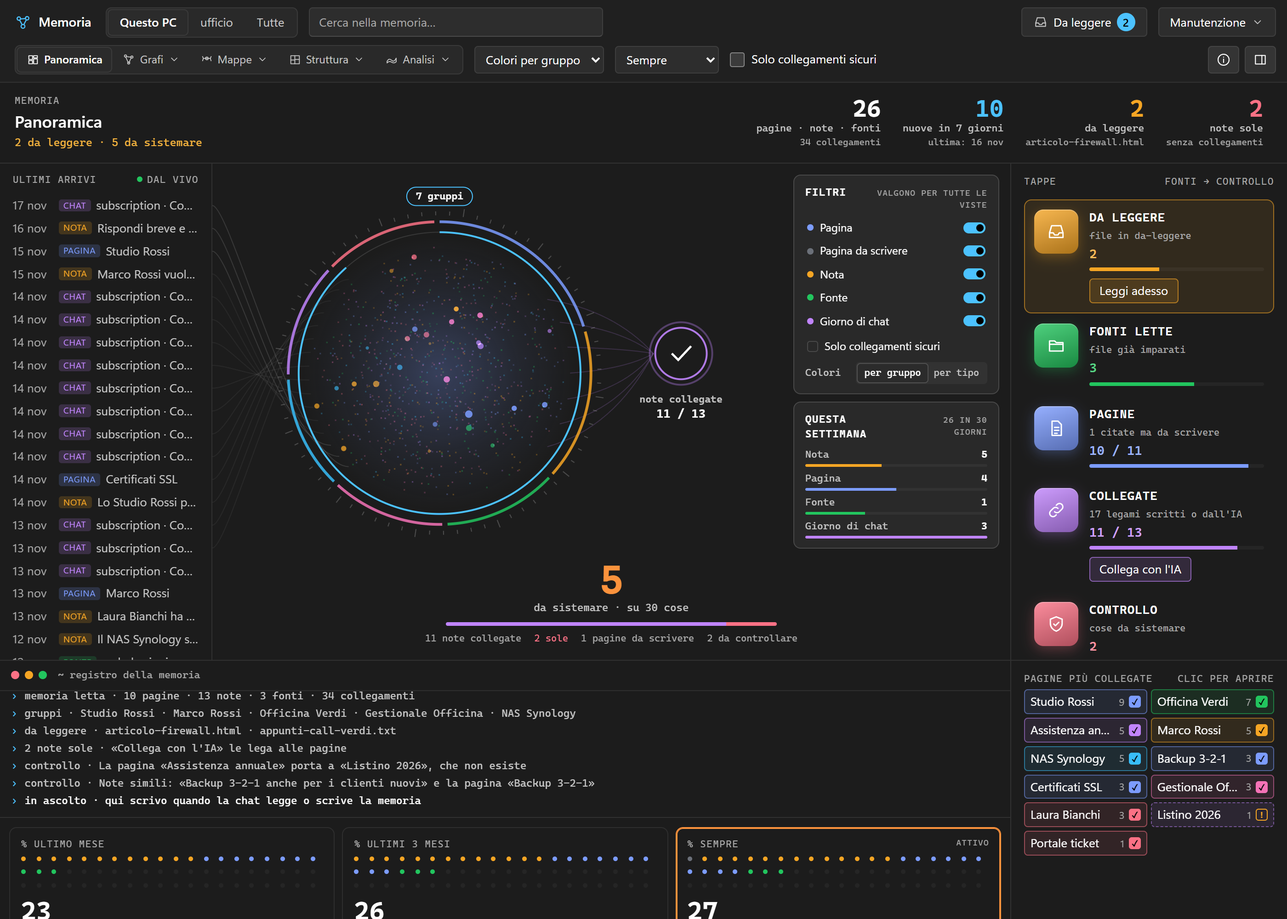
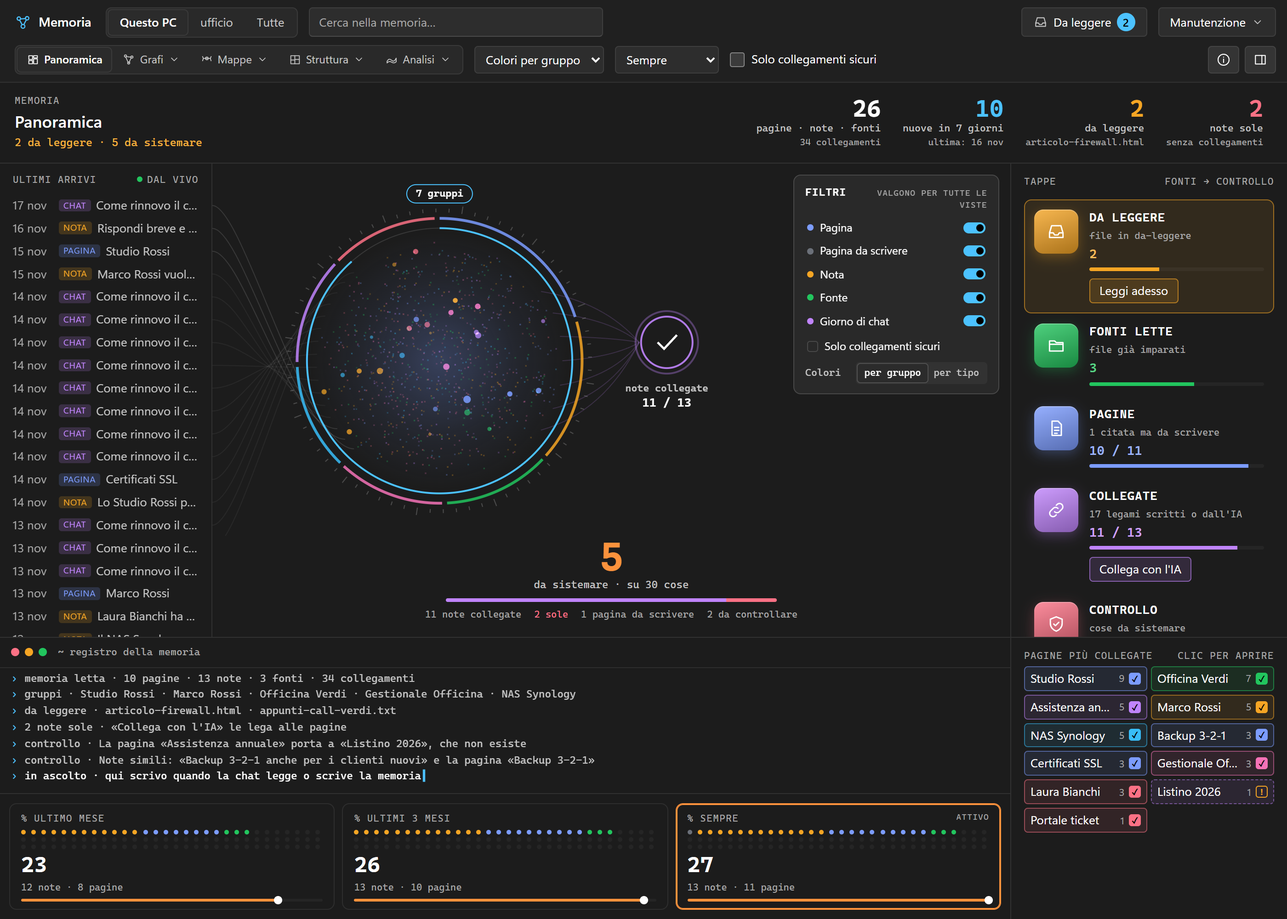
Panoramica: titolo delle chat, singolare e plurale, anello dei gruppi pieno, tutto in vista a 1400×1000
Le righe del diario mostrano la domanda (il motore piccolo in fondo, solo
se c'è spazio). Tutte le cifre del cruscotto con tn(). Gli archi dei
gruppi fanno tutto il giro: i primi 11 e gli altri insieme in «altri N
gruppi», coi loro colori. I gettoni scorrono dentro il loro riquadro
(contain: size) e non allungano più le righe in basso; registro e periodi
più compatti: a 1400×1000 le tre schede si vedono intere. I riquadri sopra
il nucleo stanno nel suo spazio; se è basso «Questa settimana» lascia posto
ai filtri.

diff --git a/src/memory/dashboard.ts b/src/memory/dashboard.ts
@@ -8,7 +8,7 @@
 // other views (main.ts DashHost). DOM, plus one canvas for the nucleus that
 // moves only while the window is visible and in front, at 30 fps at most.
 
-import { t } from "../core/i18n";
+import { t, tn } from "../core/i18n";
 
 import { h, clear, svg } from "../views/dom";
 import { GROUP_COLORS, KIND_COLOR, alpha, freshness, kindName, shortDate, type MemGraph, type MemNode, type Model, type NodeKind } from "./data";
@@ -66,6 +66,17 @@ const days = (date: string) => {
 };
 const isNote = (n: MemNode) => n.kind === "note" || n.kind === "old";
 const isPage = (n: MemNode) => n.kind === "page" || n.kind === "missing";
+/**
+ * A line of the chat diary (brain.rs: «motore · domanda → risposta»): the
+ * question is what the chat was about; the engine goes small at the end.
+ */
+function diaryLine(text: string): { title: string; engine: string } {
+  const m = /^([^·\n]{1,40}?) · ([\s\S]*)$/.exec(text);
+  const rest = m ? m[2] : text;
+  const question = rest.split(" → ")[0].trim();
+  return { title: question || rest, engine: m ? m[1].trim() : "" };
+}
+
 /** Short labels for the feed's tags. */
 const TAG: Partial<Record<NodeKind, string>> = { note: t("nota"), page: t("pagina"), source: t("fonte"), day: t("chat") };
 const LANE_KIND: Record<string, NodeKind> = { note: "note", page: "page", diary: "day", source: "source" };
@@ -106,8 +117,9 @@ export class Dashboard {
       tip: (text, sub, x, y) => this.showTip(text, sub, x, y),
       feedRows: () => this.feedRows(stage),
     });
-    stage.append(this.tip);
-    const coreBox = h("div", { class: "dash-box dash-core" }, stage, h("div", { class: "dash-floats" }, this.filtersBox, this.weekBox), this.coreNumber);
+    const floats = h("div", { class: "dash-floats" }, this.filtersBox, this.weekBox);
+    stage.append(this.tip, floats);
+    const coreBox = h("div", { class: "dash-box dash-core" }, stage, this.coreNumber);
     const stagesBox = h("div", { class: "dash-box dash-stages" },
       h("div", { class: "dash-label" }, h("span", { text: t("tappe") }), h("span", { text: t("fonti → controllo") })),
       this.stages);
@@ -121,7 +133,13 @@ export class Dashboard {
     this.el.append(head, feedBox, coreBox, stagesBox, tokensBox, termBox, cmpBox);
     new ResizeObserver(() => {
       const w = coreBox.getBoundingClientRect().width;
-      coreBox.classList.toggle("narrow", w > 0 && w < 640);
+      const narrow = w > 0 && w < 640;
+      coreBox.classList.toggle("narrow", narrow);
+      // Narrow: the small boxes go under the nucleus, out of its stage.
+      if (narrow && floats.parentElement === stage) coreBox.insertBefore(floats, this.coreNumber);
+      if (!narrow && floats.parentElement !== stage) stage.append(floats);
+      // Low: «Questa settimana» gives its room to the filters (its numbers are also on top).
+      coreBox.classList.toggle("short", !narrow && stage.getBoundingClientRect().height < 430);
     }).observe(coreBox);
   }
 
@@ -163,7 +181,7 @@ export class Dashboard {
       this.numbers.append(b);
     };
     const things = g.nodes.filter((n) => n.kind !== "day" && n.kind !== "missing");
-    big(things.length, t("pagine · note · fonti"), t("{n} collegamenti", { n: g.edges.length }), t("Apri il grafo"), () => this.host.openSet([]));
+    big(things.length, t("pagine · note · fonti"), tn("{n} collegamento", "{n} collegamenti", g.edges.length), t("Apri il grafo"), () => this.host.openSet([]));
     big(fresh.length, t("nuove in 7 giorni"), fresh.length ? t("ultima: {d}", { d: shortDate(fresh.map((n) => n.date).sort().pop() ?? "") }) : t("niente di nuovo"),
       t("Clic per vederle nel grafo"), () => this.host.openSet(fresh.map((n) => n.id)), "accent");
     big(g.inbox.length, t("da leggere"), g.inbox.length ? (g.inbox[0] ?? "") : t("cartella vuota"), t("Apri la cartella dei file da far imparare"), () => this.host.openInbox(), g.inbox.length ? "warn" : "");
@@ -179,10 +197,11 @@ export class Dashboard {
     const events = [...s.model.g.events].sort((a, b) => b.date.localeCompare(a.date)).slice(0, 60);
     for (const e of events) {
       const kind = LANE_KIND[e.lane] ?? "note";
+      const { title, engine } = e.lane === "diary" ? diaryLine(e.text) : { title: e.text, engine: "" };
       const row = h("button", { class: "dash-feed-row", title: e.text, disabled: !e.node || !s.model.byId.has(e.node) },
         h("span", { class: "dash-feed-date", text: shortDate(e.date) }),
         h("span", { class: "dash-tag", style: `--tag:${KIND_COLOR[kind]}`, text: TAG[kind] ?? kindName(kind) }),
-        h("span", { class: "dash-feed-text", text: e.text }));
+        h("span", { class: "dash-feed-text" }, h("span", { text: title }), engine ? h("small", { text: engine }) : ""));
       row.addEventListener("click", () => this.host.open(e.node));
       this.feed.append(row);
     }
@@ -235,13 +254,13 @@ export class Dashboard {
     clear(this.coreNumber);
     const b = h("button", { class: `dash-core-big ${todo ? "" : "ok"}`, title: todo ? t("Le note sole nel grafo") : "" },
       h("b", { text: String(todo) }),
-      h("span", { text: todo ? t("da sistemare · su {n} cose", { n: g.nodes.length }) : t("niente da sistemare") })) as HTMLButtonElement;
+      h("span", { text: todo ? tn("da sistemare · su {n} cosa", "da sistemare · su {n} cose", g.nodes.length) : t("niente da sistemare") })) as HTMLButtonElement;
     b.addEventListener("click", () => this.host.openSet([...lonely, ...missing].map((n) => n.id)));
     const bar = h("div", { class: "dash-bar two" }, h("i", { style: `width:${(share * 100).toFixed(1)}%` }), h("em", { style: `width:${((1 - share) * 100).toFixed(1)}%` }));
     this.coreNumber.append(b, bar, h("div", { class: "dash-bar-legend" },
-      h("span", { text: t("{n} note collegate", { n: linked }) }),
-      h("span", { class: lonely.length ? "bad" : "", text: t("{n} sole", { n: lonely.length }) }),
-      h("span", { text: t("{n} pagine da scrivere", { n: missing.length }) }),
+      h("span", { text: tn("{n} nota collegata", "{n} note collegate", linked) }),
+      h("span", { class: lonely.length ? "bad" : "", text: tn("{n} sola", "{n} sole", lonely.length) }),
+      h("span", { text: tn("{n} pagina da scrivere", "{n} pagine da scrivere", missing.length) }),
       h("span", { text: t("{n} da controllare", { n: g.check.length }) })));
 
     // Top right: the filters of every view, the legend as switches.
@@ -334,10 +353,10 @@ export class Dashboard {
     stage({ icon: LINE.source, color: "#22c55e", name: t("Fonti lette"), sub: t("file già imparati"), value: String(sources), bar: sources / Math.max(1, sources + g.inbox.length),
       open: sources ? () => this.host.openSet(g.nodes.filter((n) => n.kind === "source").map((n) => n.id)) : undefined,
       empty: sources ? "" : t("Nessun file letto finora.") });
-    stage({ icon: LINE.page, color: "#7c9cff", name: t("Pagine"), sub: missing ? t("{n} citate ma da scrivere", { n: missing }) : t("tutte scritte"), value: `${pages} / ${pages + missing}`, bar: pages / Math.max(1, pages + missing), hot: hot === 2,
+    stage({ icon: LINE.page, color: "#7c9cff", name: t("Pagine"), sub: missing ? tn("{n} citata ma da scrivere", "{n} citate ma da scrivere", missing) : t("tutte scritte"), value: `${pages} / ${pages + missing}`, bar: pages / Math.max(1, pages + missing), hot: hot === 2,
       open: missing ? () => this.host.openSet(g.nodes.filter((n) => n.kind === "missing").map((n) => n.id)) : undefined,
       empty: pages ? "" : t("Le pagine nascono dai file letti o quando chiedi alla chat di scriverne una.") });
-    stage({ icon: LINE.link, color: "#c084fc", name: t("Collegate"), sub: t("{n} legami scritti o dall'IA", { n: aiLinks }), value: `${notes.length - lonely} / ${notes.length}`, bar: notes.length ? (notes.length - lonely) / notes.length : 1, hot: hot === 3,
+    stage({ icon: LINE.link, color: "#c084fc", name: t("Collegate"), sub: tn("{n} legame scritto o dall'IA", "{n} legami scritti o dall'IA", aiLinks), value: `${notes.length - lonely} / ${notes.length}`, bar: notes.length ? (notes.length - lonely) / notes.length : 1, hot: hot === 3,
       button: s.noLink ? undefined : [t("Collega con l'IA"), () => this.host.link()],
       empty: notes.length ? "" : t("Ancora nessuna nota da collegare.") });
     stage({ icon: LINE.check, color: g.check.length ? "#fb7185" : "#2dd4bf", name: t("Controllo"), sub: g.check.length ? t("cose da sistemare") : t("niente da sistemare"), value: String(g.check.length), bar: g.check.length ? Math.min(1, g.check.length / 10) : 1, hot: hot === 4,
@@ -354,7 +373,7 @@ export class Dashboard {
       .slice(0, 28);
     for (const { n, links } of pages) {
       const color = s.colours === "group" ? s.model.groupColor(n.id) ?? KIND_COLOR[n.kind] : KIND_COLOR[n.kind];
-      const b = h("button", { class: `dash-token ${n.kind === "missing" ? "missing" : ""}`, style: `--tone:${color}`, title: n.kind === "missing" ? t("Citata ma non ancora scritta") : t("{n} collegamenti", { n: links }) },
+      const b = h("button", { class: `dash-token ${n.kind === "missing" ? "missing" : ""}`, style: `--tone:${color}`, title: n.kind === "missing" ? t("Citata ma non ancora scritta") : tn("{n} collegamento", "{n} collegamenti", links) },
         h("span", { text: n.label }), h("small", { text: String(links) }), h("em", { text: n.kind === "missing" ? "!" : "✓" })) as HTMLButtonElement;
       b.addEventListener("click", () => this.host.open(n.id));
       this.tokens.append(b);
@@ -378,12 +397,12 @@ export class Dashboard {
       const per = Math.max(1, Math.ceil(items.length / 180));
       const sorted = [...items].sort((a, b) => a.kind.localeCompare(b.kind));
       for (let i = 0; i < sorted.length; i += per) dots.append(h("i", { style: `background:${KIND_COLOR[sorted[i].kind]}` }));
-      for (let i = Math.ceil(sorted.length / per); i < 60; i++) dots.append(h("i", { class: "off" }));
+      for (let i = Math.ceil(sorted.length / per); i < 90; i++) dots.append(h("i", { class: "off" }));
       card.append(
         h("div", { class: "dash-period-head" }, h("span", { text: `% ${name}` }), h("small", { text: s.period === p ? t("attivo") : "" })),
         dots,
         h("b", { text: String(items.length) }),
-        h("span", { class: "dash-period-sub", text: t("{a} note · {b} pagine", { a: notes, b: pages }) }),
+        h("span", { class: "dash-period-sub", text: `${tn("{n} nota", "{n} note", notes)} · ${tn("{n} pagina", "{n} pagine", pages)}` }),
         h("div", { class: "dash-slider" }, h("i", { style: `width:${all.length ? (items.length / all.length) * 100 : 0}%` })));
       card.addEventListener("click", () => this.host.setPeriod(p));
       this.periods.append(card);
@@ -431,12 +450,12 @@ export class Dashboard {
   private greet(s: DashState) {
     const g = s.model.g;
     const count = (k: NodeKind) => g.nodes.filter((n) => n.kind === k).length;
-    this.log(t("memoria letta · {p} pagine · {n} note · {s} fonti · {e} collegamenti", { p: count("page"), n: count("note"), s: count("source"), e: g.edges.length }));
+    this.log([t("memoria letta"), tn("{n} pagina", "{n} pagine", count("page")), tn("{n} nota", "{n} note", count("note")), tn("{n} fonte", "{n} fonti", count("source")), tn("{n} collegamento", "{n} collegamenti", g.edges.length)].join(" · "));
     const groups = s.model.groups().groups;
     if (groups.length) this.log(t("gruppi · {list}", { list: groups.slice(0, 5).map((x) => x.name).join(" · ") }));
     if (g.inbox.length) this.log(t("da leggere · {list}", { list: g.inbox.slice(0, 4).join(" · ") }));
     const lonely = s.model.lonely().length;
-    if (lonely) this.log(t("{n} note sole · «Collega con l'IA» le lega alle pagine", { n: lonely }));
+    if (lonely) this.log(tn("{n} nota sola · «Collega con l'IA» la lega alle pagine", "{n} note sole · «Collega con l'IA» le lega alle pagine", lonely));
     for (const c of g.check.slice(0, 2)) this.log(t("controllo · {c}", { c }));
     this.log(t("in ascolto · qui scrivo quando la chat legge o scrive la memoria"));
   }
@@ -477,8 +496,10 @@ class Nucleus {
   private h = 0;
   private parts: Particle[] = [];
   private shown: { x: number; y: number; r: number; id: string }[] = [];
-  private arcs: { a0: number; a1: number; lead: string; name: string; size: number; color: string }[] = [];
+  private arcs: { a0: number; a1: number; lead: string; name: string; size: number; color: string; parts?: { size: number; color: string }[] }[] = [];
   private fresh = 0;
+  /** How many groups the memory has (the arcs put the small ones together). */
+  private groupCount = 0;
   /** Faint points that give the sphere its body, more when the memory is small. */
   private dust: { x: number; y: number; z: number; color: string }[] = [];
   private model: Model | null = null;
@@ -502,7 +523,7 @@ class Nucleus {
         const n = this.model?.byId.get(hit.id);
         this.host.tip(n?.label ?? "", n ? [kindName(n.kind), shortDate(n.date)].filter(Boolean).join(" · ") : "", p.x, p.y);
       } else if (hit?.lead) {
-        this.host.tip(hit.name ?? "", t("gruppo · {n} cose · clic per vederlo", { n: hit.size ?? 0 }), p.x, p.y);
+        this.host.tip(hit.name ?? "", tn("gruppo · {n} cosa · clic per vederlo", "gruppo · {n} cose · clic per vederlo", hit.size ?? 0), p.x, p.y);
       } else this.host.tip(null);
       const id = hit?.id ?? null;
       if (id !== this.hover) this.hover = id;
@@ -586,15 +607,25 @@ class Nucleus {
       };
     });
     // The rings: one arc per group, as long as the group.
-    // At most 12 arcs (the colours repeat after that); they share the whole ring.
-    const ringed = groups.slice(0, 12);
+    // The arcs fill the whole ring: the 11 biggest groups, the rest together in «altri».
+    this.groupCount = groups.length;
+    const leadOf = (members: string[]) => members.map((id) => model.byId.get(id)).filter((n): n is MemNode => !!n && isPage(n)).sort((x, y) => y.weight - x.weight)[0]?.id ?? members[0];
+    const big = groups.length > 12 ? groups.slice(0, 11) : groups;
+    const rest = groups.slice(big.length);
+    const ringed: { name: string; members: string[]; color: string; parts?: { size: number; color: string }[] }[] =
+      big.map((g) => ({ name: g.name, members: g.members, color: g.color ?? GROUP_COLORS[0] }));
+    if (rest.length) {
+      ringed.push({
+        name: tn("{n} altro gruppo", "altri {n} gruppi", rest.length), members: rest.flatMap((g) => g.members), color: "#8b93a3",
+        parts: rest.map((g) => ({ size: g.members.length, color: g.color ?? GROUP_COLORS[0] })),
+      });
+    }
     const total = ringed.reduce((s, g) => s + g.members.length, 0) || 1;
     const gap = ringed.length > 1 ? 0.035 : 0;
     let a = -Math.PI / 2;
     this.arcs = ringed.map((g) => {
       const span = (g.members.length / total) * (Math.PI * 2 - gap * ringed.length);
-      const lead = g.members.map((id) => model.byId.get(id)).filter((n): n is MemNode => !!n && isPage(n)).sort((x, y) => y.weight - x.weight)[0]?.id ?? g.members[0];
-      const arc = { a0: a, a1: a + span, lead, name: g.name, size: g.members.length, color: g.color ?? GROUP_COLORS[0] };
+      const arc = { a0: a, a1: a + span, lead: leadOf(g.members), name: g.name, size: g.members.length, color: g.color, parts: g.parts };
       a += span + gap;
       return arc;
     });
@@ -724,12 +755,22 @@ class Nucleus {
     ctx.stroke();
     ctx.lineWidth = 3;
     for (const a of this.arcs) {
-      ctx.strokeStyle = a.color;
       ctx.globalAlpha = this.hover === a.lead ? 1 : 0.85;
-      ctx.beginPath();
-      ctx.arc(cx, cy, R * 1.16, a.a0, a.a1);
-      ctx.stroke();
+      // «Altri gruppi»: thinner, each small group in its colour.
+      const pieces = a.parts ?? [{ size: a.size, color: a.color }];
+      const sum = pieces.reduce((s, p) => s + p.size, 0) || 1;
+      ctx.lineWidth = a.parts ? 2 : 3;
+      let at = a.a0;
+      for (const p of pieces) {
+        const end = at + ((a.a1 - a.a0) * p.size) / sum;
+        ctx.strokeStyle = p.color;
+        ctx.beginPath();
+        ctx.arc(cx, cy, R * 1.16, at, end);
+        ctx.stroke();
+        at = end;
+      }
     }
+    ctx.lineWidth = 3;
     ctx.globalAlpha = 1;
     ctx.lineWidth = 1;
     ctx.strokeStyle = ink(0.22);
@@ -796,7 +837,7 @@ class Nucleus {
     }
 
     // The chip on top: how many groups.
-    const chip = this.arcs.length ? t("{n} gruppi", { n: this.arcs.length }) : t("nessun gruppo ancora");
+    const chip = this.groupCount ? tn("{n} gruppo", "{n} gruppi", this.groupCount) : t("nessun gruppo ancora");
     ctx.font = `600 11px ${MONO}`;
     const cw = ctx.measureText(chip).width + 20;
     const chipY = cy - R * 1.27 - 12;

diff --git a/src/memory/dashboard.css b/src/memory/dashboard.css
@@ -12,7 +12,7 @@
   overflow: auto;
   display: grid;
   grid-template-columns: 230px minmax(0, 1fr) 300px;
-  grid-template-rows: max-content minmax(540px, 1fr) minmax(170px, max-content) max-content;
+  grid-template-rows: max-content minmax(400px, 1fr) max-content max-content;
   grid-template-areas:
     "top top top"
     "feed core stages"
@@ -40,7 +40,8 @@
 .dash-feed { grid-area: feed; display: flex; flex-direction: column; padding: 10px 0 0; }
 .dash-core { grid-area: core; display: flex; flex-direction: column; padding: 0; overflow: hidden; }
 .dash-stages { grid-area: stages; display: flex; flex-direction: column; gap: 8px; overflow: auto; }
-.dash-tokens { grid-area: tokens; overflow: auto; }
+/* Its list scrolls inside: a long one must not stretch the rows of the log and the periods. */
+.dash-tokens { grid-area: tokens; overflow: auto; contain: size; }
 .dash-term { grid-area: term; display: flex; flex-direction: column; padding: 0; }
 .dash-compare { grid-area: cmp; padding: 10px; }
 
@@ -200,10 +201,31 @@
 }
 
 .dash-feed-text {
-  overflow: hidden;
+  display: flex;
+  align-items: baseline;
+  gap: 6px;
+  min-width: 0;
   color: var(--dim);
+}
+
+.dash-feed-text span {
+  flex: 1 1 auto;
+  min-width: 0;
+  overflow: hidden;
   text-overflow: ellipsis;
   white-space: nowrap;
+}
+
+.dash-feed-text small {
+  flex: 0 1 auto;
+  max-width: 34%;
+  overflow: hidden;
+  text-overflow: ellipsis;
+  white-space: nowrap;
+  margin-left: auto;
+  font-size: 9.5px;
+  color: var(--dim-2);
+  opacity: 0.8;
 }
 
 .dash-tag {
@@ -549,6 +571,10 @@ html[data-scheme="light"] .dash-tag {
   overflow: visible;
 }
 
+.dash-core.short .dash-week {
+  display: none;
+}
+
 /* ── Stages ── */
 
 .dash-stage {
@@ -721,13 +747,13 @@ html[data-scheme="light"] .dash-tag {
 
 .dash-term-lines {
   flex: 1;
-  min-height: 120px;
-  max-height: 240px;
+  min-height: 96px;
+  max-height: 136px;
   overflow: auto;
   padding: 8px 12px;
   font-family: var(--mono);
   font-size: 11.5px;
-  line-height: 1.65;
+  line-height: 1.55;
   color: var(--dim);
   scrollbar-width: thin;
 }
@@ -762,8 +788,8 @@ html[data-scheme="light"] .dash-tag {
 
 .dash-period {
   display: grid;
-  gap: 6px;
-  padding: 10px 12px;
+  gap: 5px;
+  padding: 8px 12px;
   border: 1px solid var(--stroke);
   border-radius: var(--r-card);
   background: transparent;
@@ -787,9 +813,9 @@ html[data-scheme="light"] .dash-tag {
 
 .dash-dots {
   display: grid;
-  grid-template-columns: repeat(20, 1fr);
+  grid-template-columns: repeat(30, 1fr);
   gap: 3px;
-  min-height: 40px;
+  min-height: 20px;
 }
 
 .dash-dots i {
@@ -804,7 +830,7 @@ html[data-scheme="light"] .dash-tag {
 
 .dash-period > b {
   font-family: var(--mono);
-  font-size: 28px;
+  font-size: 24px;
   line-height: 1;
 }
 
@@ -885,12 +911,10 @@ html[data-motion="reduced"] .dash-term-line:last-child span:last-child::after {
       "term term"
       "cmp cmp";
   }
-  .dash-stages {
+  .dash-stages-list {
     display: grid;
     grid-template-columns: repeat(auto-fill, minmax(230px, 1fr));
-  }
-  .dash-stages .dash-label {
-    grid-column: 1 / -1;
+    gap: 8px;
   }
   .dash-tokens-list {
     grid-template-columns: repeat(auto-fill, minmax(150px, 1fr));
@@ -929,4 +953,15 @@ html[data-motion="reduced"] .dash-term-line:last-child span:last-child::after {
 .dash-tokens-list .dash-empty.wide {
   grid-column: 1 / -1;
   padding: 6px 0 0;
+}
+
+/* The engine of a chat line, only where the column has room (always in the row's tooltip). */
+.dash-feed {
+  container-type: inline-size;
+}
+
+@container (max-width: 300px) {
+  .dash-feed-text small {
+    display: none;
+  }
 }

diff --git a/docs/chat.md b/docs/chat.md
@@ -99,7 +99,7 @@ Rifatto in Rust dentro la memoria, vale per ogni motore. File .md in `memoria`:
 - **Indice in RAM** (`brain::Index`, 9/11): i `.md` restano la memoria (si aprono e correggono a mano, viaggiano con `memshare`, li leggono i motori); niente database. Pagine (`pages_in`) e grafo (`graph_in`) sono tenuti in RAM per cartella (max 8: questo PC e le copie) e rifatti solo se cambia l'impronta: percorso, ora e dimensione dei file della cartella fino a due livelli, `collegamenti.json` accanto alla copia, lingua. Controllo e da-leggere sono letti ogni volta. Il campo in alto e la Mappa non rileggono più tutto a ogni tasto (test `the_index_follows_the_files`). Se un giorno le pagine fossero migliaia: un indice SQLite di sola ricerca, rifatto dai `.md`.
 - **Memoria di Claude Code** (`cc_memory.rs`, 9/11, interruttore `memoryClaudeCode` in Impostazioni → Flussi → Secondo cervello): le note che Claude Code salva da solo (`<config>/projects/<cartella>/memory/*.md`, intestazione name/description/type, `MEMORY.md` saltato) di ogni account (`~/.claude`, `~/.claude-*`, `CLAUDE_CONFIG_DIR`). **Solo lettura**, mai copiate nella memoria di EasyIsland (le copie divergerebbero). `memory_search` le aggiunge in fondo («Dalla memoria di Claude Code»), `memory_page` apre una nota per nome, il campo in alto e la Mappa le trovano: provenienza `claude-code` (pulsante «Claude Code», un nodo fonte per progetto, `[[link]]` fra note, collegamento alle pagine di questo PC che nominano; «Apri il file» apre il .md). Righe da `redact`. Nel preambolo solo le note `user`/`feedback` della cartella utente (le generali; quelle di un progetto restano a `memory_search`), max 2.500 caratteri. Il nome del progetto si ricava dalla cartella vera (`real_path`: Claude Code scrive "-" per ogni carattere che non è lettera o cifra), tenuto in memoria per cartella. **Doppioni** (`twin`): una nota che ripete una nota di MEMORIA.md (almeno 3 parole chiave in comune e Dice ≥ 0,5 o l'80 % della più corta) o che ha il nome di una pagina è tolta da `memory_search`; nella Mappa «Tutte» non è un nodo ma una linea «anche in Claude Code» dal progetto a quella nota o pagina (nella vista «Claude Code» ci sono tutte). **Date:** ogni riga di ricerca, preambolo e pagina porta il giorno del file; se contraddice la memoria di EasyIsland vale quella. **Cache:** `notes()` rilegge i file solo se cambia l'elenco (percorso, ora, dimensione).
 - **Aspetto della Memoria** (10/11, dopo una revisione di design): come isola e Impostazioni (`applyUiStyle`, Windows 11/Classico, scuro/chiaro/auto, segue `settings-changed`; nel browser `?ui=classic`, `?scheme=light|auto`); colori del canvas dai token CSS (`theme.ts`), stelle solo come accenno nello scuro. Barra su una riga: fonti come controllo segmentato, «Da leggere» col numero, «Manutenzione» con Leggi adesso, Collega con l'IA, Controlla, Aggiorna. Etichette in pixel di schermo, mai sovrapposte (`labels.ts`, `Placer`): prima il nodo scelto o sotto il mouse, poi percorso, vicini, ricerca, nomi dei gruppi, hub; le altre al passaggio del mouse o con lo zoom; legenda e suggerimento sono zone riservate. Grafo inquadrato sul contenuto (`coreBox`); mappa mentale con pillole sopra i rami; mappa concettuale a capo su più righe. Pannello: `[[Pagina]]` come link, date brevi («7 nov»). Legenda con i soli tipi presenti; suggerimento d'uso solo fino al primo uso, poi dietro ⓘ. `?many=300` crea una memoria grande nel browser.
-- **Finestra Memoria** (`memoria.html`; «Mappa» in Impostazioni o pulsante a tre nodi `memBtn` nell'intestazione): **Panoramica** (`dashboard.ts`, `dashboard.css`, 17/11, Edoardo: «voglio qualcosa di così ricco»): la vista con cui si apre sempre la finestra (`?tab=` per le altre). Cruscotto DOM a griglia + un canvas per il nucleo (particelle = note e pagine per gruppo, max 700 più una polvere decorativa che non si clicca; archi = gruppi `findGroups`, max 12; freschezza a 30 giorni). Dati solo da `memory_graph` e `memory-activity`, niente Rust nuovo. Ogni clic passa da `DashHost` in `main.ts` (nodo → Grafo, insieme → Grafo con `focusSet`, gruppo → Bolle, lavori → gli stessi pulsanti di Manutenzione, filtri → gli stessi controlli); `fromDash` mostra «← Panoramica». Il registro riprende `feedback` e `memory-activity`. CPU: il nucleo disegna solo a finestra visibile e a fuoco, a 30 fps al massimo, si ferma 20 s dopo l'ultimo movimento del mouse; con `animateIdle()` falso un solo fotogramma. Sotto 1000 px la colonna destra va sotto, sotto 640 tutto in colonna. Nel browser `?few` (memoria appena cominciata) e `?many=300`. creata nascosta all'avvio (`create_memory_window`). Dati da `memory_graph` (`brain::graph_of`: pagine, pagine da scrivere, note, note archiviate, fonti, giorni di chat; collegamenti; eventi). Una nota si collega alla pagina di cui contiene il titolo o che cita o con ≥ 2 parole chiave comuni (tre migliori, `key_words`) e alle due note più simili. Se `memory_graph` fallisce mostra l'errore. **Quale memoria** (`source`): con una copia in `memoria-condivise` o «Memoria di un altro PC» impostata, nella barra «Questo PC» / un pulsante per ogni altro PC (nome dalla cartella o dall'impostazione, mai fisso) / «Tutte»; ricordata in `localStorage`. Nodi dell'altro PC con id `<nome>|p:…` e `origin` (`brain::tag`), etichetta «· nome» in «Tutte», pagina con lo stesso titolo sui due PC unita da una linea; «Apri il file» apre la copia. Sulla copia niente controllo, da-leggere, «Leggi adesso», «Collega», «Controlla». Nel browser l'altro PC finto è «ufficio» (`demo.ts`). Viste Canvas 2D senza librerie: Grafo (forze che si fermano), Grafo 3D (`graph3d.ts`, prospettiva a mano, inerzia), Galassia (`galaxy.ts`, un gruppo per galassia, scintillio solo 5 s dopo un cambio), Rete neurale (`neural.ts`, impulsi su `memory-activity`), Bolle (`bubbles.ts`, impacchettate a spirale), Raggiera (`sunburst.ts`), Mappa mentale, Mappa concettuale (`concept.ts` salta livelli vuoti), Mappa ad albero (`treemap.ts`), Matrice (`matrix.ts`), Salute (`health.ts`, coperture e note isolate; 14/11, Antigravity; barra delle viste a gruppi con separatori, animazioni a riposo solo con `animateIdle`), Fiume (`stream.ts`, per gruppo e settimana, 6 mesi), Da dove arriva (`sankey.ts`, provenienza dal testo della nota: «(Agent Chat)», «(da pc)», ticket, mail, chiamata, Telegram; fonti = file letti), Timeline. **Comuni** (`data.ts`): gruppi per propagazione delle etichette pesata sulla forza (`findGroups`, ordine fisso, ≥ 3 nodi, nome = pagina più collegata), `freshness`, `pathBetween`, `around`, `lonely`. Filtri sopra le viste (`filtered` in `main.ts`, in `localStorage`): tipi dalla legenda, periodo, «Solo collegamenti sicuri» (forza ≥ 2), colori per gruppo o tipo (`setColouring`). Grafo: nuvola e nome per gruppo, dimensione = collegamenti, luce = freschezza, stimati tratteggiati, «Come è collegato a…» (`setPath`), doppio clic su un nodo = `focus` (2 passi), anello rosso per le note sole. **Collegamenti** (`brain::graph_in`): ogni arco ha `strength` (3 scritto nelle pagine o deciso dall'IA, 2 la nota nomina la pagina, 1 stimato). Stime: `Rarity` (idf) — nota→pagina solo con una parola del titolo e una rara o due rare, nota↔nota coseno pesato ≥ 0,4 con ≥ 2 parole, nomi con la maiuscola in 2–3 testi (di una pagina contano solo titolo e alias, mai fra due pagine: dal 6/11, «Diego» in due testi legava cliente e farmacia). Pagina↔pagina dai [[link]] (forza 3) e, dal 14/11, quando una pagina nomina l'altra per titolo o alias a parole intere (`pages_named_in`, forza 2; un nome presente in più di un terzo delle pagine, come «Clienti», non conta; max 5 per pagina, i nomi più lunghi prima). La Mappa concettuale mostra solo forza 3, più le forza 2 delle pagine senza relazioni scritte, tratteggiate e senza etichetta (prima galleggiavano sole in fondo). Pagine con nome di dispositivo di Windows (`com1`, `nul`…): `slug` aggiunge «-pagina», i file vecchi rinominati alla lettura. Prima (fino al 3/11) ogni parola rara legava a catena chi la aveva: collegamenti assurdi a lavoro. **Giudizio dell'IA** (`memory_links.rs`): «Collega con l'IA» (e dopo il riordino) manda al motore per la memoria le note non ancora giudicate a gruppi di 30 (max 6 turni) con i candidati (`brain::candidates`: 6 pagine, 4 note) e tiene solo i numeri scelti; verdetti per `note_hash` in `collegamenti.json` (viaggia con `memshare`), che per quelle note sostituiscono le stime. Copia di un altro PC senza il suo file: giudicata da qui in `memoria-condivise/<pc>.collegamenti.json`. `brain::activity` (strumenti memoria in `agent.rs`, richieste di `memshare`) → `memory-activity` con le parole, mai i file. Fotogrammi solo con movimento o nodo scelto. A un cambio di misura (`Stage.resize`, la finestra che si apre ingrandita dopo il primo disegno) la vista si inquadra di nuovo (`reset` dopo un disegno alla misura nuova); se l'utente ha già spostato o zoomato (`touched`) resta al centro ciò che guardava. Ricerca, pannello, «Apri il file», «Ricorda…» (`memory_note_add`). File trascinati → `da-leggere` via `memory_inbox_add` (25 MB, nomi ripuliti; drop di Tauri spento). `brain::changed` → `memory-refresh`. Nel browser dati finti (`src/memory/demo.ts`); screenshot `memoria-*`.
+- **Finestra Memoria** (`memoria.html`; «Mappa» in Impostazioni o pulsante a tre nodi `memBtn` nell'intestazione): **Panoramica** (`dashboard.ts`, `dashboard.css`, 17/11, Edoardo: «voglio qualcosa di così ricco»): la vista con cui si apre sempre la finestra (`?tab=` per le altre). Cruscotto DOM a griglia + un canvas per il nucleo (particelle = note e pagine per gruppo, max 700 più una polvere decorativa che non si clicca; archi = gruppi `findGroups` su tutto il giro, i primi 11 e gli altri insieme in «altri N gruppi» coi loro colori; righe del diario = la domanda, il motore piccolo solo se c'è spazio; freschezza a 30 giorni). Dati solo da `memory_graph` e `memory-activity`, niente Rust nuovo. Ogni clic passa da `DashHost` in `main.ts` (nodo → Grafo, insieme → Grafo con `focusSet`, gruppo → Bolle, lavori → gli stessi pulsanti di Manutenzione, filtri → gli stessi controlli); `fromDash` mostra «← Panoramica». Il registro riprende `feedback` e `memory-activity`. CPU: il nucleo disegna solo a finestra visibile e a fuoco, a 30 fps al massimo, si ferma 20 s dopo l'ultimo movimento del mouse; con `animateIdle()` falso un solo fotogramma. Sotto 1000 px la colonna destra va sotto, sotto 640 tutto in colonna. Nel browser `?few` (memoria appena cominciata) e `?many=300`. creata nascosta all'avvio (`create_memory_window`). Dati da `memory_graph` (`brain::graph_of`: pagine, pagine da scrivere, note, note archiviate, fonti, giorni di chat; collegamenti; eventi). Una nota si collega alla pagina di cui contiene il titolo o che cita o con ≥ 2 parole chiave comuni (tre migliori, `key_words`) e alle due note più simili. Se `memory_graph` fallisce mostra l'errore. **Quale memoria** (`source`): con una copia in `memoria-condivise` o «Memoria di un altro PC» impostata, nella barra «Questo PC» / un pulsante per ogni altro PC (nome dalla cartella o dall'impostazione, mai fisso) / «Tutte»; ricordata in `localStorage`. Nodi dell'altro PC con id `<nome>|p:…` e `origin` (`brain::tag`), etichetta «· nome» in «Tutte», pagina con lo stesso titolo sui due PC unita da una linea; «Apri il file» apre la copia. Sulla copia niente controllo, da-leggere, «Leggi adesso», «Collega», «Controlla». Nel browser l'altro PC finto è «ufficio» (`demo.ts`). Viste Canvas 2D senza librerie: Grafo (forze che si fermano), Grafo 3D (`graph3d.ts`, prospettiva a mano, inerzia), Galassia (`galaxy.ts`, un gruppo per galassia, scintillio solo 5 s dopo un cambio), Rete neurale (`neural.ts`, impulsi su `memory-activity`), Bolle (`bubbles.ts`, impacchettate a spirale), Raggiera (`sunburst.ts`), Mappa mentale, Mappa concettuale (`concept.ts` salta livelli vuoti), Mappa ad albero (`treemap.ts`), Matrice (`matrix.ts`), Salute (`health.ts`, coperture e note isolate; 14/11, Antigravity; barra delle viste a gruppi con separatori, animazioni a riposo solo con `animateIdle`), Fiume (`stream.ts`, per gruppo e settimana, 6 mesi), Da dove arriva (`sankey.ts`, provenienza dal testo della nota: «(Agent Chat)», «(da pc)», ticket, mail, chiamata, Telegram; fonti = file letti), Timeline. **Comuni** (`data.ts`): gruppi per propagazione delle etichette pesata sulla forza (`findGroups`, ordine fisso, ≥ 3 nodi, nome = pagina più collegata), `freshness`, `pathBetween`, `around`, `lonely`. Filtri sopra le viste (`filtered` in `main.ts`, in `localStorage`): tipi dalla legenda, periodo, «Solo collegamenti sicuri» (forza ≥ 2), colori per gruppo o tipo (`setColouring`). Grafo: nuvola e nome per gruppo, dimensione = collegamenti, luce = freschezza, stimati tratteggiati, «Come è collegato a…» (`setPath`), doppio clic su un nodo = `focus` (2 passi), anello rosso per le note sole. **Collegamenti** (`brain::graph_in`): ogni arco ha `strength` (3 scritto nelle pagine o deciso dall'IA, 2 la nota nomina la pagina, 1 stimato). Stime: `Rarity` (idf) — nota→pagina solo con una parola del titolo e una rara o due rare, nota↔nota coseno pesato ≥ 0,4 con ≥ 2 parole, nomi con la maiuscola in 2–3 testi (di una pagina contano solo titolo e alias, mai fra due pagine: dal 6/11, «Diego» in due testi legava cliente e farmacia). Pagina↔pagina dai [[link]] (forza 3) e, dal 14/11, quando una pagina nomina l'altra per titolo o alias a parole intere (`pages_named_in`, forza 2; un nome presente in più di un terzo delle pagine, come «Clienti», non conta; max 5 per pagina, i nomi più lunghi prima). La Mappa concettuale mostra solo forza 3, più le forza 2 delle pagine senza relazioni scritte, tratteggiate e senza etichetta (prima galleggiavano sole in fondo). Pagine con nome di dispositivo di Windows (`com1`, `nul`…): `slug` aggiunge «-pagina», i file vecchi rinominati alla lettura. Prima (fino al 3/11) ogni parola rara legava a catena chi la aveva: collegamenti assurdi a lavoro. **Giudizio dell'IA** (`memory_links.rs`): «Collega con l'IA» (e dopo il riordino) manda al motore per la memoria le note non ancora giudicate a gruppi di 30 (max 6 turni) con i candidati (`brain::candidates`: 6 pagine, 4 note) e tiene solo i numeri scelti; verdetti per `note_hash` in `collegamenti.json` (viaggia con `memshare`), che per quelle note sostituiscono le stime. Copia di un altro PC senza il suo file: giudicata da qui in `memoria-condivise/<pc>.collegamenti.json`. `brain::activity` (strumenti memoria in `agent.rs`, richieste di `memshare`) → `memory-activity` con le parole, mai i file. Fotogrammi solo con movimento o nodo scelto. A un cambio di misura (`Stage.resize`, la finestra che si apre ingrandita dopo il primo disegno) la vista si inquadra di nuovo (`reset` dopo un disegno alla misura nuova); se l'utente ha già spostato o zoomato (`touched`) resta al centro ciò che guardava. Ricerca, pannello, «Apri il file», «Ricorda…» (`memory_note_add`). File trascinati → `da-leggere` via `memory_inbox_add` (25 MB, nomi ripuliti; drop di Tauri spento). `brain::changed` → `memory-refresh`. Nel browser dati finti (`src/memory/demo.ts`); screenshot `memoria-*`.
 - **Ricorda questo** (`brain::remember`, `src/views/remember.ts`): `hotkeyRemember` (Win+Alt+M) copia la selezione (`context::selection`) con la provenienza (`collect::source`) e apre la card «Ricorda» (testo modificabile, «Riguarda…»); senza selezione card vuota. Anche dal campo («ricorda …», «ricordati che …»), da Telegram `/ricorda` o vocale che comincia con «ricorda», «ricordati che», «memorizza», «prendi nota», «ricordami» (`telegram::remember_words`; «ricordami di…» resta intero per cogliere l'impegno), da «Riquadra e chiedi» (OCR `capture_text`) e come ultima voce di Win+Alt+A. Scrive in `da-leggere` `Ricorda <data> <parole>.md` con `quando:`, `da:`, `indirizzo:`, `riguarda:`; con `rememberNow` (di serie) avvia «Leggi adesso», altrimenti lo legge il Riordino.
 - **Annota dopo una chiamata** (`threecx::offer_note`, `momentCalls`): chiamata risposta ≥ 30 s → proposta `call`; «Annota» apre la card vuota con «Riguarda» = chiamante e la provenienza. Il contenuto della chiamata non va all'IA.
 - **Al lavoro** (`brain_watch.rs`, Impostazioni → Flussi → Secondo cervello): ticket Zammad uscito da «assegnati a me» e chiuso (`zammad::closed_ticket`: primo e ultimi tre messaggi, max 3000 caratteri) e mail Microsoft 365 non letta importante o di qualcuno con una pagina (`brain::page_named` su nome o azienda del dominio, mai webmail) vanno in coda; 10 min dopo l'ultimo evento il compito «Aggiornamento della memoria» (`tasks::brain_job`, `memory` = `events`) propone con `task_ask` max due righe per pagina e gli impegni («Fai tutto»/«Niente»), scrive solo l'approvato (`memory_page_write`; promemoria con `todo_add`, sennò pagina «Impegni»). Max 8 compiti al giorno, uno alla volta; la prima lettura dopo l'avvio fa da base. Outlook classico non coperto.
